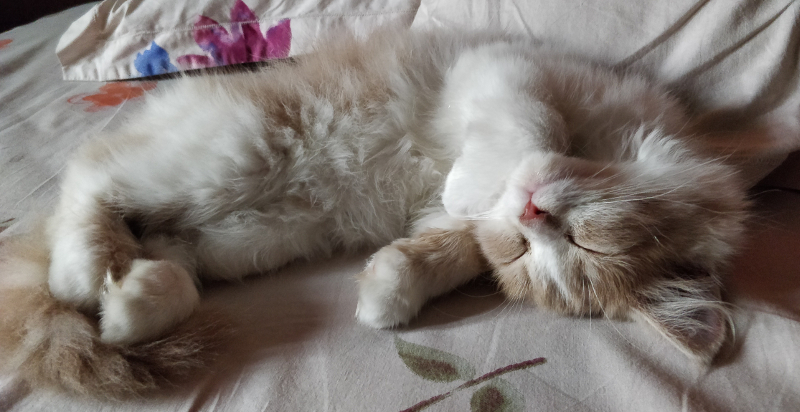
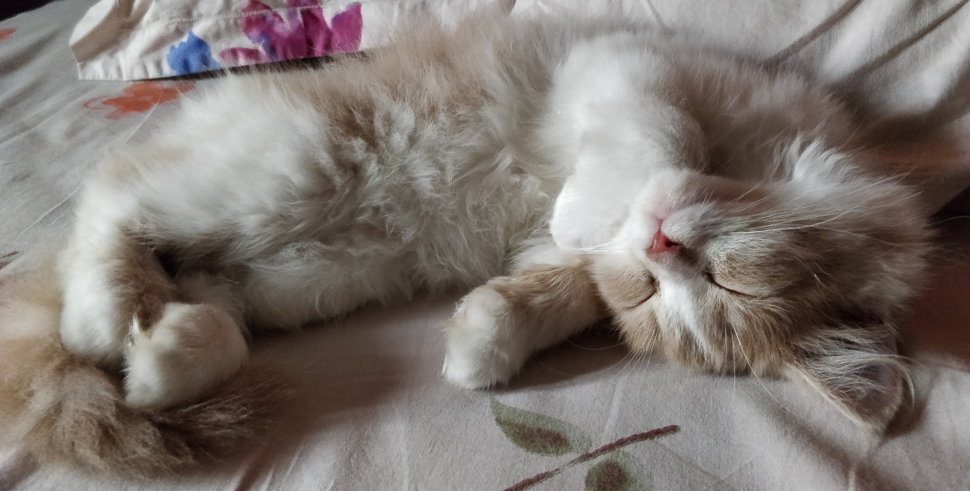
fix photo

diff --git a/about.md b/about.md
@@ -3,8 +3,8 @@ layout: page
 title: About
 ---
 
-<a href="/photos/office-happy.jpg" target="_blank">
-  <img src="/photos/office-happy.jpg" class="img-thumbnail img-fluid rounded float-right" width="40%" alt="...">
+<a href="/photos/napping-happy.jpg" target="_blank">
+  <img src="/photos/napping-happy.jpg" class="img-thumbnail img-fluid rounded" style="margin-right: 10px" alt="...">
 </a>
 
 This website is dedicated to my beloved kitten 'Happy' 🐱.
@@ -22,8 +22,8 @@ reviews, edits and pull requests are also welcome. The site's source is hosted
 
 ### Who was Happy?
 
-<a href="/photos/napping-happy.jpg" target="_blank">
-  <img src="/photos/napping-happy.jpg" class="img-thumbnail img-fluid rounded float-left" style="margin-right: 10px" width="50%" alt="...">
+<a href="/photos/office-happy.jpg" target="_blank">
+  <img src="/photos/office-happy.jpg" class="img-thumbnail img-fluid rounded float-right" width="60%" alt="...">
 </a>
 
 "Happy was my purrfect darling kitten, he loved playing with me, hunting for
@@ -37,7 +37,7 @@ he would do his business. Even on his final day, he demanded and used his litter
 box.
 
 <a href="/photos/cat-tree-happy.jpg" target="_blank">
-  <img src="/photos/cat-tree-happy.jpg" class="img-thumbnail img-fluid rounded float-right" style="margin-left: 10px" width="50%" alt="...">
+  <img src="/photos/cat-tree-happy.jpg" class="img-thumbnail img-fluid rounded float-right" style="margin-left: 10px" width="60%" alt="...">
 </a>
 
 He loved treats, cantaloupe and curd. I caught him few times trying to steal his
